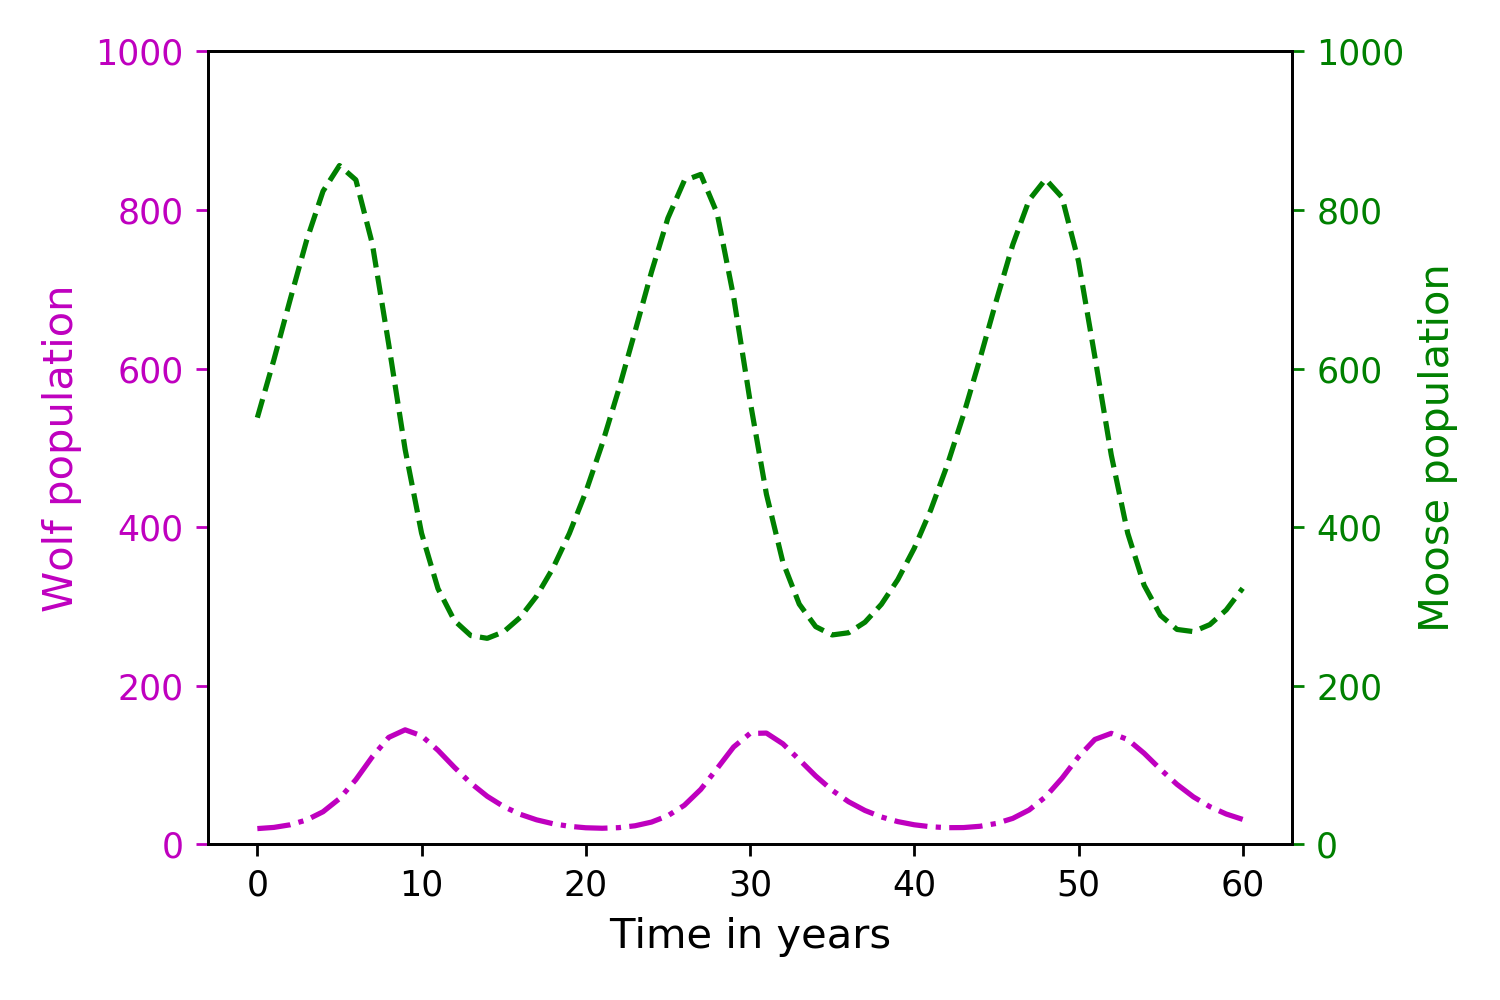
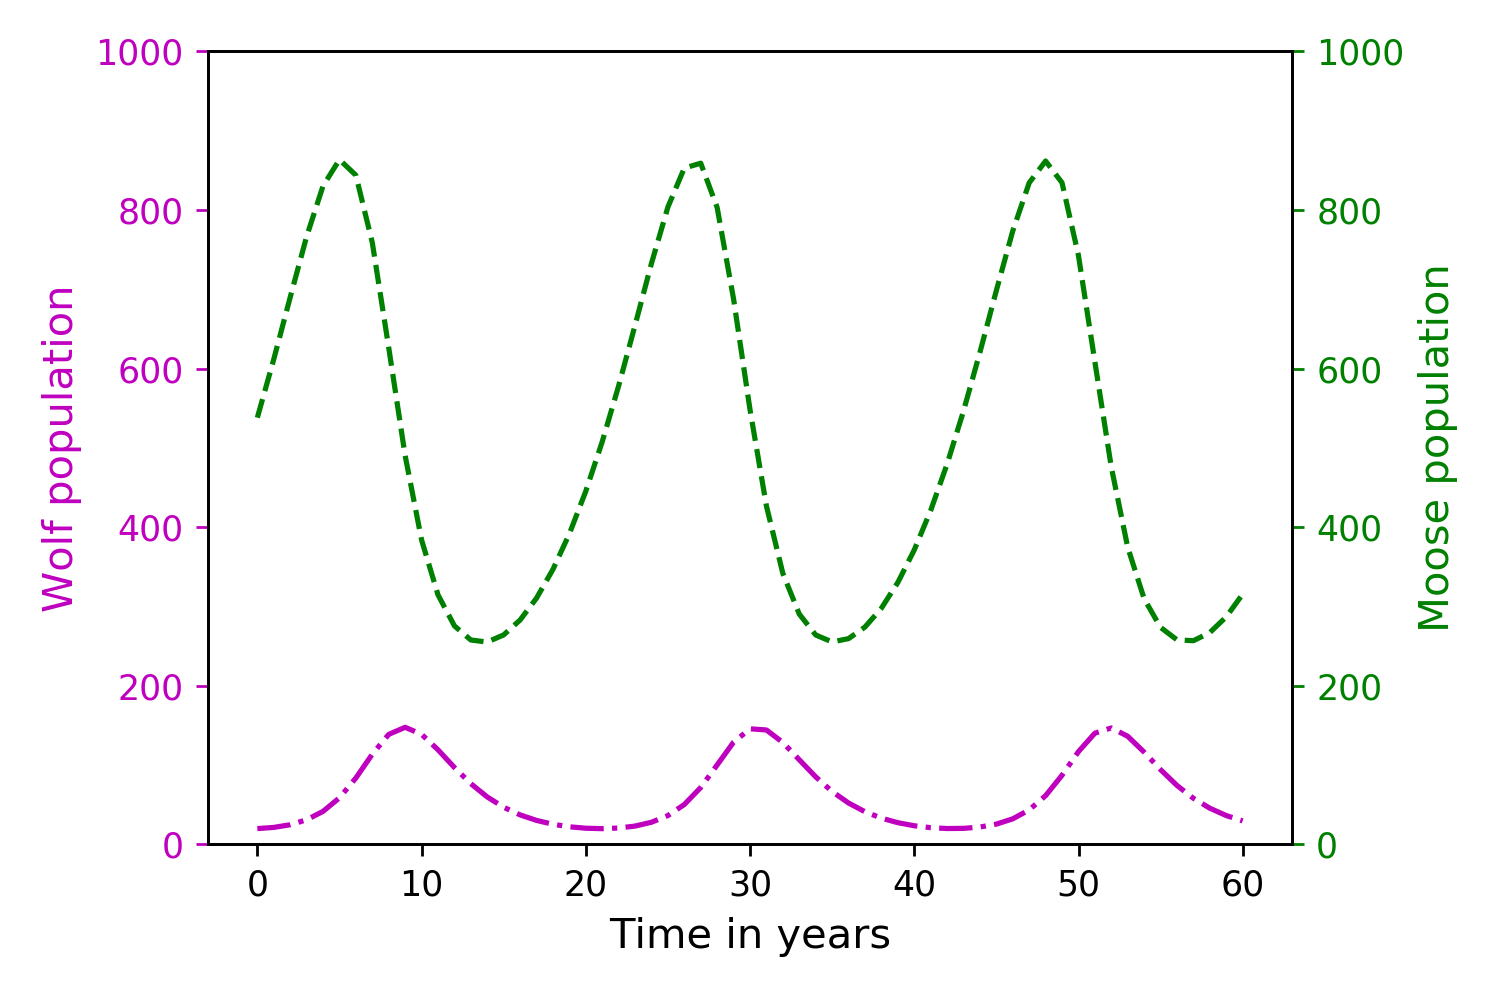
mbb

diff --git a/pearc19_model/basic.py b/pearc19_model/basic.py
@@ -30,17 +30,19 @@ Function to run the population dynamics model.
 inputs : parameters for the model
 outputs: time series, Moose pop., Wolf pop. 
 '''
-def pop_dyn(brM = 0.2,    #moose birth rate
-            dfM = 0.003,  #moose death fraction
-            brW = 0.001,  #wolf birth rate
-            dfW = 0.5,    #wolf death fraction
-            ipM = 500,     #initial moose population
-            ipW = 20,     #initial wolf population 
-            end_time = 50):   
+def pop_dyn(beta):   
+    
+    brM = beta[0]    #moose birth rate
+    dfM = beta[1]  #moose death fraction
+    brW = beta[2]  #wolf birth rate
+    dfW = beta[3]    #wolf death fraction
+    ipM = 538.151087      #initial moose population
+    ipW = 20              #initial wolf population 
     
     # Model parameters
     time_step = 0.0833    # simulation time step in years (a month)
     start_time = 0        # in years
+    end_time = 60
     
     # Derived constants
     N = int((end_time - start_time) / time_step)    # number of simulation steps
@@ -63,7 +65,7 @@ def pop_dyn(brM = 0.2,    #moose birth rate
         M[i+1] = M[i] + (M[i]*brM - M[i]*dfM*W[i])*time_step
         W[i+1] = W[i] + (W[i]*brW*M[i] - W[i]*dfW)*time_step
 
-    return t,M,W
+    return t[::12],M[::12],W[::12]
 
 
 '''
